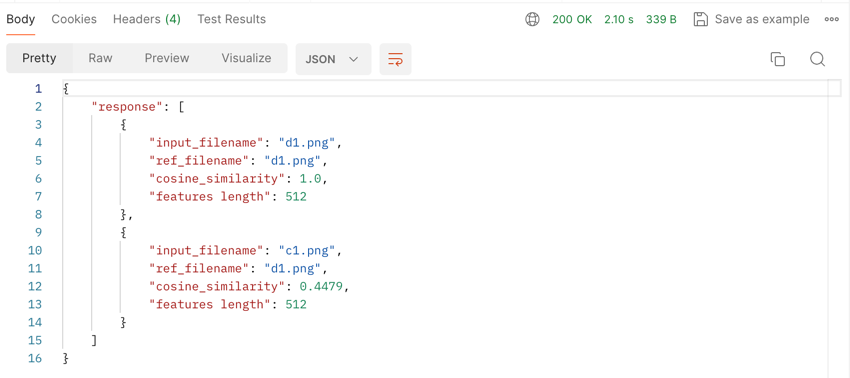
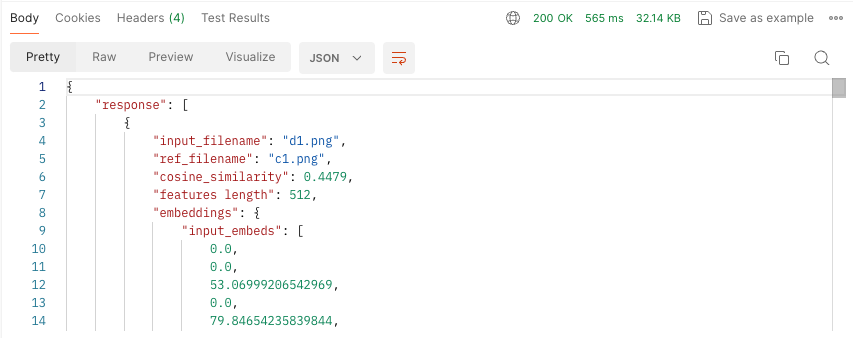
uncommenting output embeddings for simple endpoint

diff --git a/app/ml/models.py b/app/ml/models.py
@@ -111,6 +111,9 @@ def get_semantic_similarity(input_content: Dict, ref_content: Dict) -> List:
         record["ref_filename"] = ref_name
         record["cosine_similarity"] = semantic_score
         record["features length"] = len(embeds[0])
+        record_input_embeds = embeds[0].tolist()
+        record_ref_embeds = ref_embeds[0].tolist()
+        record["embeddings"] = {"input_embeds": record_input_embeds, "ref_embeds": record_ref_embeds}
         response.append(record.copy())
     print("Preparing response")
     return response
@@ -156,6 +159,7 @@ def extract_semantic_features(input_content: Dict, ref_content: Dict):
         _record["input_category"] = input_cat
         _record["ref_category"] = ref_cat
         _record["features length"] = len(input_pred)
+        # _record["embeddings"] = {"input_embeds": input_pred.tolist(), "ref_embeds": ref_pred.tolist()}
         response.append(_record.copy())
         print(f"Record for {filename} and {ref_name} added to response.")
 

diff --git a/README.md b/README.md
@@ -49,6 +49,8 @@ The goal is to detect which image file amongst the list of input images is seman
       6. **independant_input_score** - float number representing confidence of pretrained image model determining input_category
       7. **ref_independant_score** - float number representing confidence of pretrained image model determining input_category
       8. **features length** - number of extracted embeddings
+      9. **embeddings** - dictionary of input image & ref image embeddings 
+         [**This part of output is commented out for readability**]
 9. Similarly you can follow the same steps for other endpoint
 
 ### Local (using Postman)
@@ -61,6 +63,7 @@ The goal is to detect which image file amongst the list of input images is seman
    2. **ref_filename** - name of reference file provided
    3. **cosine_similarity** - float number representing semantic similarity 0 (least similar) - 1 (most similar)
    4. **features length** - number of extracted embeddings
+   5. **embeddings** - dictionary of input image & ref image embeddings
 
 ### Command Line - Client Side (using Docker)
 1. Clone [this](https://github.com/thakareakshay1709/semantic-analysis-webapp.git) repository from github
